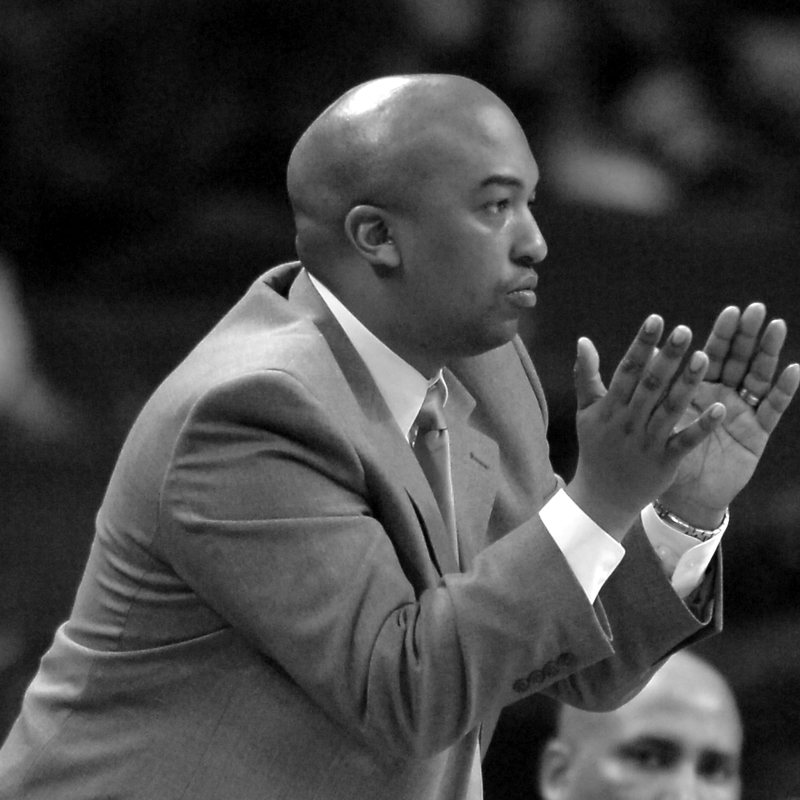
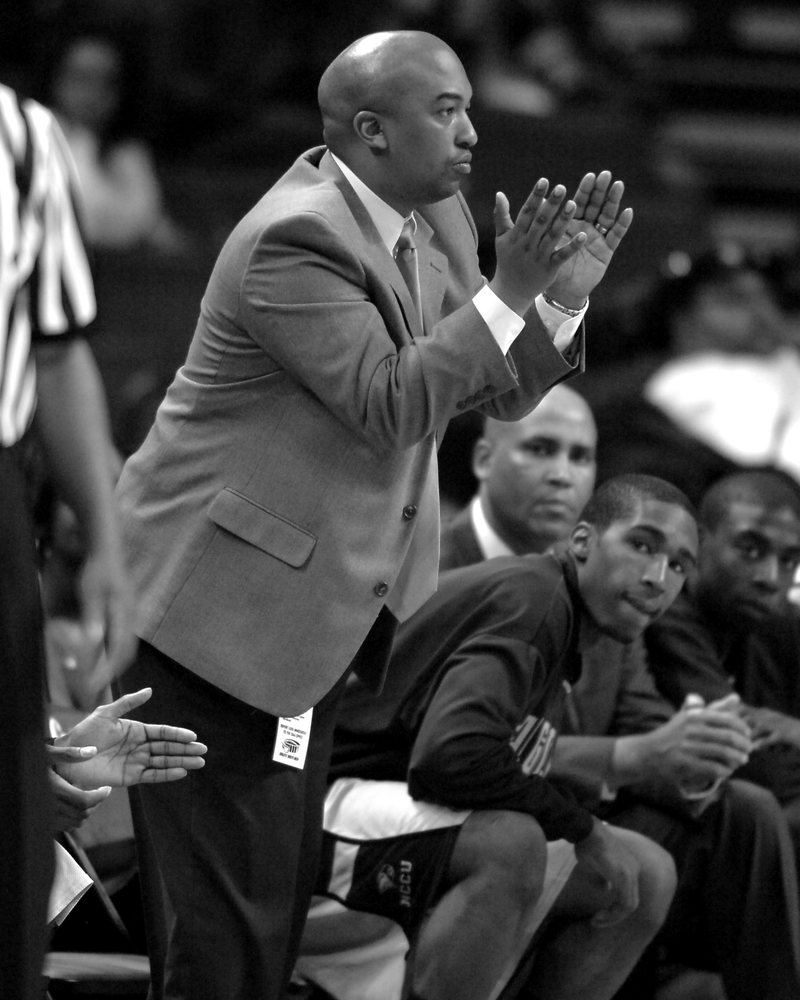
Speaking: make background-photo hero live; About preview: wider sideline crop
Claude-Session: https://claude.ai/code/session_01S5K1kNounDgq4GaAtvX6of

diff --git a/speaking.html b/speaking.html
@@ -10,6 +10,7 @@
 <link rel="preconnect" href="https://fonts.gstatic.com" crossorigin>
 <link href="https://fonts.googleapis.com/css2?family=Archivo:wdth,wght@62..125,400..900&amp;family=IBM+Plex+Sans:wght@400;500;600&amp;display=swap" rel="stylesheet">
 <link rel="stylesheet" href="/css/styles.css">
+<style>@media (max-width:720px){.sp-hero{background:linear-gradient(180deg,rgba(11,61,46,.75),#0B3D2E 70%),url(/assets/ut-muhammad-speaking-bg.jpg) 85% top/cover no-repeat,#0B3D2E !important}}</style>
 </head>
 <body>
 <div style="min-height:100%;display:flex;flex-direction:column">
@@ -32,9 +33,9 @@
 </div>
 </header>
 
-<section style="position:relative;background:#0B3D2E;color:#FFFFFF">
-<div class="wrap" style="display:flex;flex-wrap:wrap;gap:48px;align-items:center;padding-top:80px;padding-bottom:80px">
-<div style="flex:1 1 520px;min-width:0;display:flex;flex-direction:column;gap:22px">
+<section class="sp-hero" style="position:relative;color:#FFFFFF;background:linear-gradient(90deg,#0B3D2E 0%,rgba(11,61,46,.94) 36%,rgba(11,61,46,.6) 60%,rgba(11,61,46,.3) 100%),url(/assets/ut-muhammad-speaking-bg.jpg) right center/cover no-repeat,#0B3D2E">
+<div class="wrap" style="display:flex;flex-wrap:wrap;gap:48px;align-items:center;padding-top:112px;padding-bottom:112px;min-height:560px">
+<div style="flex:0 1 640px;min-width:0;display:flex;flex-direction:column;gap:22px">
 <p class="eyebrow" style="color:#D9B44A">Keynotes · Workshops · Panels · Seminars</p>
 <h1 class="disp hero-h" style="font-size:90px;color:#FFFFFF">The business of sport, told by someone who has lived it.</h1>
 <p style="margin:0;font-size:20px;line-height:1.55;color:#CFE7E0;max-width:600px">Dr. U.T. Muhammad brings the scholar's research and the practitioner's scars to every room: athletic departments, conferences, HBCUs, parent nights and youth sport organizations.</p>
@@ -43,8 +44,12 @@
 <a class="btn-line" href="/assets/UT_Muhammad_Speaker_OneSheet.pdf" target="_blank" rel="noopener" style="border-color:#CFE7E0;color:#FFFFFF">Download the speaker one-sheet</a>
 </div>
 </div>
-<div style="flex:1 1 360px;min-width:0;display:flex;flex-direction:column;gap:20px">
-<img src="/assets/ut-muhammad-speaking.jpg" width="1000" height="750" alt="Dr. U.T. Muhammad speaking into a microphone to a packed gym" style="width:100%;height:auto;border-radius:10px;display:block">
+</div>
+</section>
+
+<section style="background:#F6FAF8">
+<div class="wrap" style="padding-top:56px;padding-bottom:16px;display:flex;justify-content:center">
+<div style="max-width:620px;width:100%">
 <div style="background:#FFFFFF;color:#10251D;border-radius:10px;padding:28px;display:flex;flex-direction:column;gap:18px">
 <span class="eyebrow">The odds families rarely hear</span>
 <p style="margin:0;font-size:17px;line-height:1.5;color:#3D5A50">Share of high school athletes who go on to play in the NCAA</p>
@@ -57,6 +62,7 @@
 </div>
 <p style="margin:0;font-size:13px;color:#3D5A50">Bars scaled to 10%. Source: <a href="https://ncaaorg.s3.amazonaws.com/research/pro_beyond/2023RES_ProbabilityBeyondHSFiguresMethod.pdf">NCAA Research</a>, 2022-23 data.</p>
 </div>
+
 </div>
 </div>
 </section>

diff --git a/about-preview.html b/about-preview.html
@@ -65,7 +65,7 @@
 <div style="flex:1 1 360px;min-width:0;display:flex;flex-direction:column;gap:12px">
 <p class="eyebrow">At a glance</p>
 <h2 class="disp sec-h" style="font-size:52px">Credentials</h2>
-<figure style="margin:16px 0 0;max-width:420px"><img src="/assets/ut-muhammad-sideline.jpg" width="800" height="800" alt="Dr. U.T. Muhammad coaching from the sideline at North Carolina Central University" style="width:100%;height:auto;border-radius:10px;display:block"><figcaption style="margin-top:8px;font-size:14px;color:#3D5A50">On the sideline as a men's basketball coach at North Carolina Central University.</figcaption></figure>
+<figure style="margin:16px 0 0;max-width:380px"><img src="/assets/ut-muhammad-sideline.jpg" width="800" height="1000" alt="Dr. U.T. Muhammad coaching from the sideline at North Carolina Central University" style="width:100%;height:auto;border-radius:10px;display:block"><figcaption style="margin-top:8px;font-size:14px;color:#3D5A50">On the sideline as a men's basketball coach at North Carolina Central University.</figcaption></figure>
 </div>
 <dl style="flex:1 1 600px;min-width:0;margin:0;display:grid;grid-template-columns:minmax(160px,220px) 1fr;gap:16px 32px;font-size:17px;line-height:1.5">
 <dt style="font-weight:600">Education</dt><dd style="margin:0;color:#3D5A50">Ed.D., Sport Leadership and Theory, United States Sports University · M.S., Recreational Sport Administration, North Carolina Central University · B.S., Psychological Aspects of Sport, North Carolina State University</dd>
